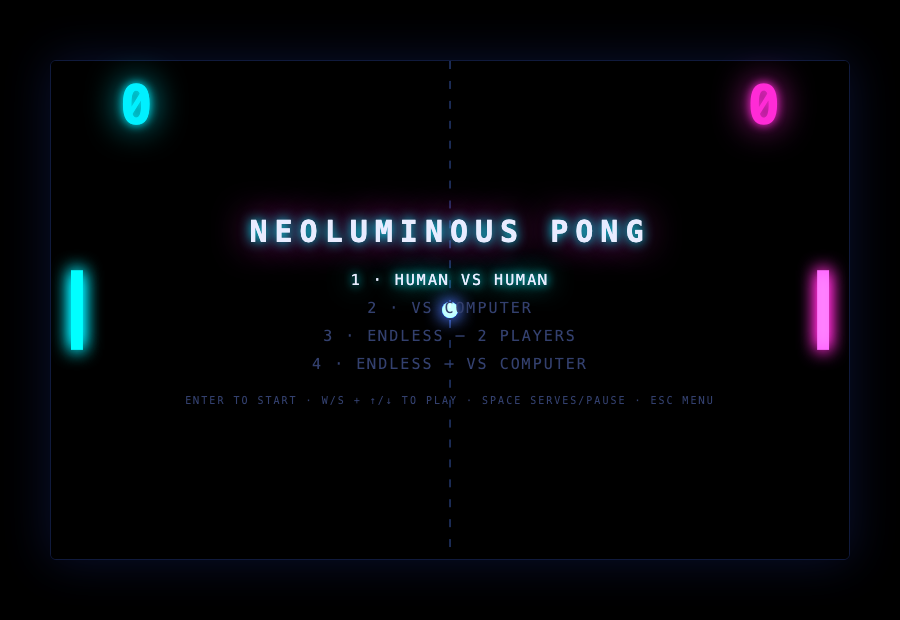
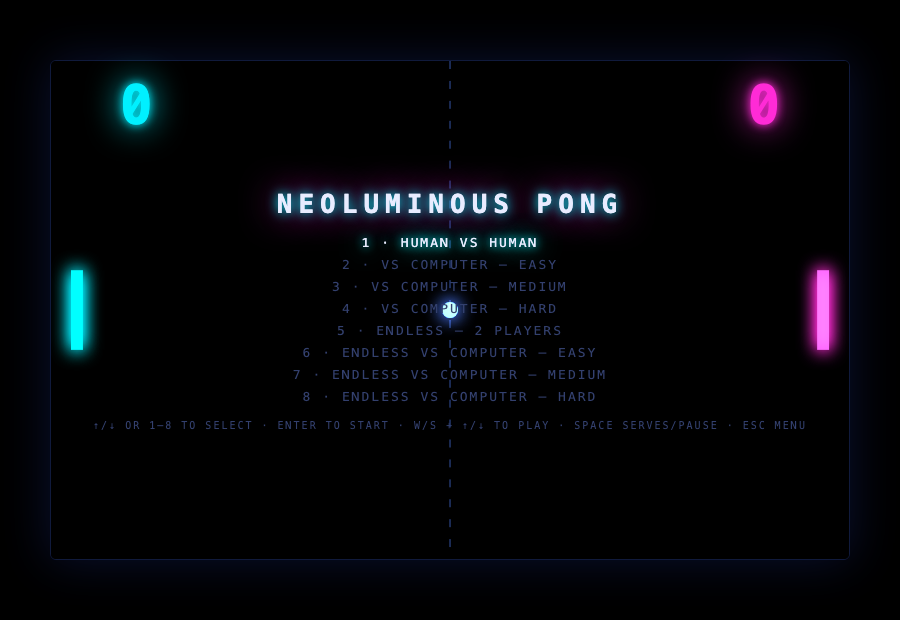
docs+shots: RESULTS-UX (slice 3), GAME-DESIGN/NEON-RENDERING/ROADMAP/README sync, re-captured screenshots (menu, rally, winner)

diff --git a/docs/RESULTS-UX.md b/docs/RESULTS-UX.md
@@ -1,0 +1,92 @@
+# Results — Slice 3: AI Difficulty, Bigger Ball Trail, Menu Navigation
+
+**Outcome: built, tested, screenshotted, pushed.** Three review requests from
+Octavio: the AI felt too strong → difficulty tiers; the ball should leave more
+light; the menu should be navigable with ↑/↓ in addition to the number keys.
+
+## 1. AI difficulty tiers
+
+The single `AI_SPEED`/`AI_DEADZONE` pair became a three-tier table
+(`game.js` constants):
+
+| Tier   | Speed (px/s) | Dead-zone (px) | Intent                                    |
+|--------|--------------|----------------|-------------------------------------------|
+| EASY   | 220          | 20             | loses to anything angled, fast or slow    |
+| MEDIUM | 330          | 10             | the fair default — sharp late angles win  |
+| HARD   | 430          | 4              | the old 400/6 behavior (what felt too strong) |
+
+Design point: a human paddle is **450 px/s**, faster than the CPU at *every*
+tier — the CPU is never won against by pure speed, only by angle and timing.
+"Too strong" is now "row 4"; if MEDIUM also feels hot, it's a one-number edit.
+
+## 2. The ball is the hero of the trail pass
+
+`drawTrail()` is now parameterized (width multiplier, alpha, glow per object):
+
+|            | Frames | Alpha | Width × | Head glow (blur) |
+|------------|--------|-------|---------|------------------|
+| Ball       | 32     | 0.85  | 1.7×    | 22               |
+| Paddles    | 16     | 0.55  | 1.0×    | 14               |
+
+The ball leaves a ~0.5 s neon comet; the paddles keep short wakes so they
+read as secondary. Tunables: `BALL_TRAIL_LEN`, the three `drawTrail` call
+args, `GLOW_TRAIL_BALL`.
+
+## 3. Menu: 8 rows, ↑/↓ + 1–8
+
+```
+ 1 · HUMAN VS HUMAN
+ 2 · VS COMPUTER — EASY          6 · ENDLESS VS COMPUTER — EASY
+ 3 · VS COMPUTER — MEDIUM        7 · ENDLESS VS COMPUTER — MEDIUM
+ 4 · VS COMPUTER — HARD          8 · ENDLESS VS COMPUTER — HARD
+ 5 · ENDLESS — 2 PLAYERS
+```
+
+- `↑/↓` moves the selection with **wrap-around** (up from row 1 → row 8);
+  `1–8` jumps directly; `Enter` starts. No hidden state — every row is an
+  explicit menu entry, selected row glows.
+- In-match header now shows the full pick: `NORMAL · CPU · MEDIUM`.
+- Implementation: one `MODES` table (8 × [length, opponent, difficulty]) +
+  `sel` index + `select(i)`; the old 4-row `picks` map is gone.
+
+## Verification
+
+```
+node --check code/game.js  → OK
+node temp/smoke.js
+  PASS — menu → Normal to 11 (win 0:11) → rematch → Endless 2P (no win)
+       → AI(medium) tracks ball → menu nav + wrap → menu
+```
+
+New/updated assertions: 8-key map (keys 5/7 select the endless rows),
+`diff` readback per row, ↑/↓ movement, **wrap from row 1 to row 8**, and
+start-from-selection (Enter on row 8 → serve). The strict-0:11, endless-no-win
+and AI-tracking paths re-pass unchanged on the new code.
+
+Two bugs caught by the tests before they shipped (both real):
+- `code.charCodeAt(0) - 49` computed from the 'D' of "Digit5" — numbers
+  parsed from the trailing digit instead;
+- a wrap test that was off by one keystroke (fixed the *test*, not the game).
+
+## Screenshots (re-captured, same Chrome-headless rig)
+
+- `01-menu.png` — the 8-row menu with ↑/↓ / 1–8 footer
+- `02-rally-vs-cpu.png` — `ENDLESS · CPU · MEDIUM`, new ball comet
+- `03-winner.png` — banner + `NORMAL · CPU · MEDIUM` (still the throwaway
+  `WIN_SCORE=1` copy for the headless freeze window — real game still 11,
+  smoke-proven)
+
+## What to check in your playthrough
+
+- [ ] Menu: ↑/↓ walks the list (wraps at both ends), 1–8 jumps, Enter starts
+- [ ] Row 2 (EASY): CPU is beatable comfortably — this is the "was too strong" fix
+- [ ] Row 3 (MEDIUM): fair fight; edge angles still decide it
+- [ ] Row 4 (HARD): as tough as before (that's the old behavior, on purpose)
+- [ ] Ball trail is longer/brighter than the paddle wakes on every shot
+- [ ] Header shows e.g. `NORMAL · CPU · EASY` in the right cases
+
+## Deliberately left for later
+
+AI *prediction* (aiming at future ball position, not chase), AI on the left
+side, difficulty shown/persisted in high scores (there are no high scores
+yet), sound toggle — all still on `docs/ROADMAP.md`.

diff --git a/docs/GAME-DESIGN.md b/docs/GAME-DESIGN.md
@@ -84,10 +84,10 @@ Endless has no **over**: `Esc` just drops to **menu**.
 | Key    | Effect                                   |
 |--------|------------------------------------------|
 | `W`/`S`  | left paddle up/down                      |
-| `↑`/`↓` | right paddle up/down                    |
+| `↑`/`↓` | right paddle up/down · **in menu: move selection (wraps)** |
 | `Space`| serve (serving) / pause-resume (playing) |
 | `Enter`| start (menu→serving) / restart (over)     |
-| `1`/`2`/`3`/`4`  | match type (menu): 1 human+human, 2 vs CPU, 3 endless 2P, 4 endless vs CPU |
+| `1`–`8` | jump straight to a menu row (see rows below)                |
 | `Esc`    | endless→menu, over→menu                  |
 
 Key state is a `Set` of currently-held codes; movement reads it each frame
@@ -97,12 +97,17 @@ In CPU modes the right paddle ignores `↑`/`↓` — the AI owns it.
 
 ## Opponent AI (right/magenta paddle)
 
-`moveAI(p, dt)` tracks the ball's y through the paddle's center:
+`moveAI(p, dt)` tracks the ball's y through the paddle's center, with
+per-difficulty speed + dead-zone (constants at the top of `game.js`):
 
-- speed `AI_SPEED = 400 px/s` (human is 450 — the CPU is *capped*, so fast
-  angled rallies beat it),
-- `AI_DEADZONE = 6 px` of slack so it doesn't jitter when level with the ball,
-- pure chase: no prediction, no anticipation, no difficulty tiers (roadmap).
+| Tier   | Speed (px/s) | Dead-zone (px) | Feel                                        |
+|--------|--------------|----------------|---------------------------------------------|
+| EASY   | 220          | 20             | slow + sloppy; loses to anything angled     |
+| MEDIUM | 330          | 10             | fair fight; beat with sharp late angles     |
+| HARD   | 430          | 4              | the old 400/6 behavior — the "too strong" one |
+
+Pure chase: no prediction, no anticipation. A human (450 px/s) is faster than
+the CPU at every tier — the fight is about angles, not raw speed.
 
 Runs in `SERVE` and `PLAY` like human paddles; re-centers on each serve;
 leaves a magenta trail like everything else.
@@ -116,12 +121,14 @@ leaves a magenta trail like everything else.
 
 ## POC scope (build now)
 
-Everything above, plus the **opponent AI** (section above) and the four-mode
-menu (1 human+human · 2 vs CPU · 3 endless 2P · 4 endless vs CPU): keyboard,
-both match lengths, score, win, neon+trails, Web Audio blips.
+Everything above, plus the **opponent AI** (section above) with three
+difficulty tiers and the eight-row menu:
+1 human+human · 2–4 vs CPU easy/medium/hard · 5 endless 2P · 6–8 endless
+vs CPU easy/medium/hard. Keyboard, both match lengths, score, win,
+neon+trails (ball trail: 32 frames, extra glow), Web Audio blips.
 
 ## Explicitly deferred (see ROADMAP.md)
 
-mouse/touch control, AI difficulty tiers/prediction, AI on the left side,
-sound toggle, match-to-11-then-2 margin, high-score persistence, screen
-shake, particle burst on hit.
+mouse/touch control, AI prediction, AI on the left side, per-player sound
+toggle, match-to-11-then-2 margin, high-score persistence, screen shake,
+particle burst on hit.

diff --git a/README.md b/README.md
@@ -24,30 +24,31 @@ open code/index.html
 That's it — a browser tab is all you need. (Screenshots/short capture go in
 `screenshots/`.)
 
-## Controls (proposed — confirm in review)
+## Controls
 
 | Key        | Action                          |
 |------------|---------------------------------|
 | `W` / `S`  | Move left paddle up / down       |
-| `↑` / `↓`  | Move right paddle up / down      |
+| `↑` / `↓`  | Move right paddle (in menu: pick)  |
 | `Space`    | Serve ball / pause               |
 | `Enter`    | Play (start a match)             |
-| `1` / `2` / `3` / `4` | Pick match type (see Modes)     |
+| `1`–`8`   | Pick match type directly          |
 | `Esc`      | Quit Endless / back to menu      |
 
 Single-keyboard 2-player local is the POC default. Mouse control for one side
 and AI for the other is a roadmap item (see `docs/ROADMAP.md`).
 
-## Modes (menu select with 1–4)
+## Match types (menu rows 1–8, ↑/↓ or 1–8 to pick)
 
 - **1 · Human vs Human** — Normal: first to **11** points wins, then a winner
   banner and a restart prompt.
-- **2 · VS Computer** — Normal; the CPU pilots the right (magenta) paddle.
-  It chases the ball at 400 px/s with no prediction — beat it with sharp
-  angled shots once the rally speeds up.
-- **3 · Endless — 2 Players** — no winner; play until `Esc`. Score climbs
+- **2 / 3 / 4 · VS Computer — EASY / MEDIUM / HARD** — Normal; the CPU pilots
+  the right (magenta) paddle. EASY is a pushover, MEDIUM is the fair fight,
+  HARD is the tough one. You always play the cyan side.
+- **5 · Endless — 2 Players** — no winner; play until `Esc`. Score climbs
   forever.
-- **4 · Endless — VS Computer** — endless vs the CPU. Score climbs forever.
+- **6 / 7 / 8 · Endless vs Computer — EASY / MEDIUM / HARD** — endless vs the
+  CPU at the same three difficulties.
 
 ## Folder map
 
@@ -61,6 +62,7 @@ neoluminous-pong/
 │   ├── PLAN.md             ← step-by-step implementation plan (approved)
 │   ├── RESULTS.md          ← build results, verification, review checklist
 │   ├── RESULTS-AI.md       ← slice 2: computer opponent + screenshots
+│   ├── RESULTS-UX.md       ← slice 3: difficulty tiers, ball trail, menu nav
 │   └── ROADMAP.md          ← POC scope vs. later
 ├── code/                   ← the game: index.html + style.css + game.js
 ├── screenshots/            ← captures of running game

diff --git a/docs/NEON-RENDERING.md b/docs/NEON-RENDERING.md
@@ -65,7 +65,7 @@ the object's neon color → a comet streak.
 ```js
 // push current pos every frame (cap the array):
 ball.trail.push({ x: ball.x, y: ball.y });
-if (ball.trail.length > TRAIL_LEN) ball.trail.shift();   // TRAIL_LEN ≈ 16
+if (ball.trail.length > TRAIL_LEN) ball.trail.shift();   // ball: 32 frames · paddles: 16
 
 function drawTrail(trail, color) {
   ctx.globalCompositeOperation = 'lighter';   // additive = glowy streak
@@ -88,7 +88,10 @@ function drawTrail(trail, color) {
 
 - **Per-object color** → ball streaks blue, left paddle cyan, right paddle
   magenta. Exactly the brief.
-- `TRAIL_LEN ~ 16` at 60 fps ≈ 0.27 s of history. Longer = more drama.
+- Trail length: ball 32 frames (~0.53 s, the long comet), paddles 16
+  (~0.27 s wakes), at 60 fps. Ball trail also gets higher alpha (0.85 vs
+  0.55), 1.7× width, and a stronger head glow (blur 22 vs 14) — the ball is
+  the hero of the effect.
 - Paddles trail too (the brief says paddles **and** balls). Their streaks are
   short vertical smears — looks like an energy wake. Cheap: same function.
 - On **score / serve**, clear each object's trail so it doesn't streak across

diff --git a/docs/ROADMAP.md b/docs/ROADMAP.md
@@ -26,7 +26,11 @@ Each is a small, independent addition to the single file — no rebuild needed.
 
 - ~~AI opponent~~ — **done (slice 2)**: tracking AI, dead-zone, capped speed;
   four-mode menu. See `docs/RESULTS-AI.md`.
-- **AI difficulty tiers / prediction / AI on the left side.**
+- ~~AI difficulty tiers~~ — **done (slice 3)**: EASY/MEDIUM/HARD (220/330/430 px/s);
+  menu extended to 8 rows, ↑/↓ + 1–8 selection. See `docs/RESULTS-UX.md`.
+- ~~More light on the ball trail~~ — **done (slice 3)**: 32-frame comet,
+  brighter/wider/glowier than paddle wakes.
+- **AI prediction / AI on the left side.**
 - **Mouse/touch** — one paddle follows the pointer; enables single-player.
 - **Win-margin to 2** — classic 11-point table-tennis rule (needs 2-lead).
 - **Sound toggle** (`M`) + a subtle menu music loop.
